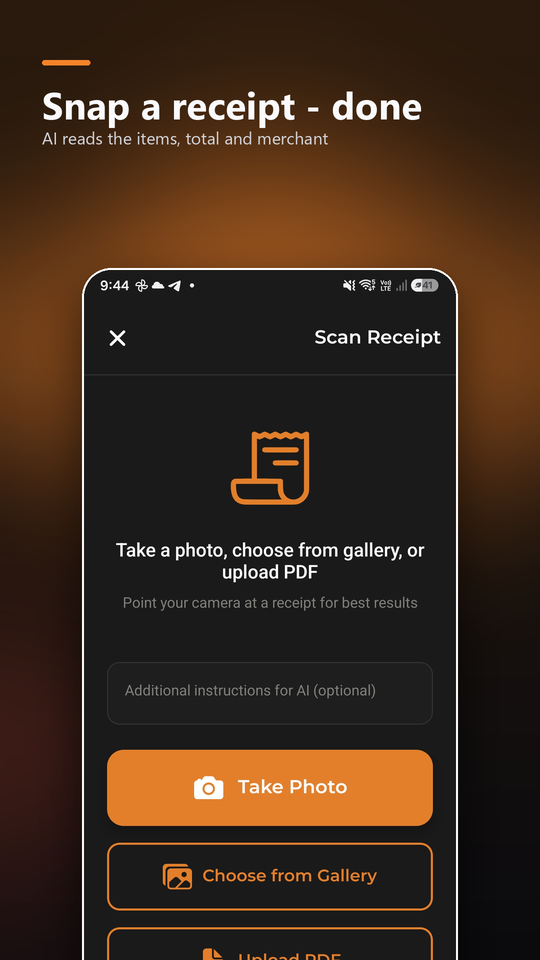
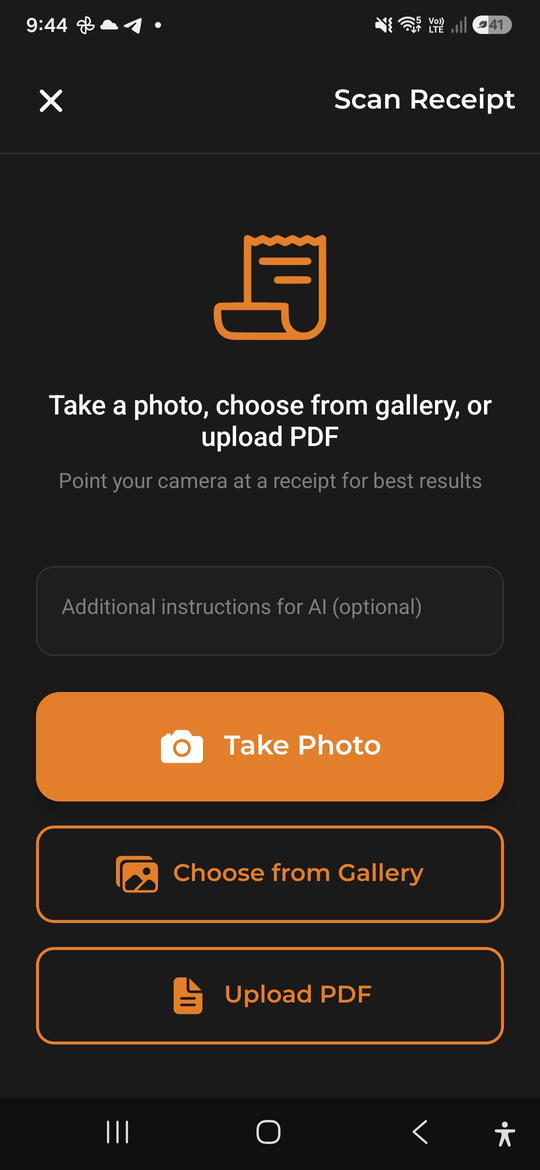
ABA-269: Landing fixes - clean screenshots, no-jump lightbox, centered footer, language dropdown
- Feature lightbox uses clean raw screenshots (by-language/) instead of the styled
  marketing plaques (fixes the "generic image" on the shared-budget card)
- Lightbox switched from :target anchors to a pure-CSS checkbox hack, so closing no
  longer jumps the page to the top (URL hash never changes)
- Footer centered
- Language picker is now a <details> dropdown with native language names (scales to 9)

diff --git a/docs/marketing/landing/site/index.html b/docs/marketing/landing/site/index.html
@@ -38,13 +38,19 @@ header .wrap{display:flex;align-items:center;justify-content:space-between;heigh
 .faq h3{margin:0 0 6px;font-size:18px}.faq p{margin:0;color:#5b5b66;font-size:16px}
 .blogcta{text-align:center;padding:0 0 60px}.blogcta a{color:#c96a12;font-weight:700;font-size:16px}
 .band{background:#1a1a1d;color:#fff;text-align:center}.band .wrap{padding:56px 22px}.band h2{font-size:28px;margin:0 0 22px}
-footer{border-top:1px solid #ececf0;background:#fafafb;color:#8a8a93;font-size:14px}
-footer .wrap{padding:30px 22px;display:flex;flex-direction:column;gap:16px}
-.f-links{display:flex;gap:18px;flex-wrap:wrap}.f-links a{color:#5b5b66;font-weight:600}
-.f-co{display:flex;align-items:center;gap:12px;border-top:1px solid #ececf0;padding-top:16px}
+footer{border-top:1px solid #ececf0;background:#fafafb;color:#8a8a93;font-size:14px;text-align:center}
+footer .wrap{padding:30px 22px;display:flex;flex-direction:column;align-items:center;gap:16px}
+.f-links{display:flex;gap:18px;flex-wrap:wrap;justify-content:center}.f-links a{color:#5b5b66;font-weight:600}
+.f-co{display:flex;align-items:center;justify-content:center;gap:12px;border-top:1px solid #ececf0;padding-top:16px;width:100%}
 .f-co img{height:30px;width:30px}
+.langmenu{position:relative}.langmenu>summary{list-style:none;cursor:pointer;color:#5b5b66;font-weight:600;font-size:15px}
+.langmenu>summary::-webkit-details-marker{display:none}
+.langlist{position:absolute;top:150%;right:0;background:#fff;border:1px solid #ececf0;border-radius:12px;box-shadow:0 12px 30px rgba(0,0,0,.12);padding:6px;min-width:170px;z-index:20}
+.langlist a{display:block;padding:9px 12px;border-radius:8px;color:#3a3a42;font-size:14px;font-weight:600}
+.langlist a:hover{background:#fff3e6}.langlist a.active{color:#F58320}
+.lbcb{position:absolute;width:0;height:0;opacity:0;overflow:hidden}
 .lb{display:none;position:fixed;inset:0;background:rgba(10,10,12,.82);z-index:50;align-items:center;justify-content:center;padding:24px}
-.lb:target{display:flex}.lb .bg{position:absolute;inset:0}
+.lbcb:checked + .lb{display:flex}.lb .bg{position:absolute;inset:0;cursor:default}
 .lb img{position:relative;max-height:86vh;max-width:360px;width:100%;border-radius:18px;box-shadow:0 20px 60px rgba(0,0,0,.5)}
-.lb .x{position:absolute;top:16px;right:22px;color:#fff;font-size:32px;font-weight:700;z-index:2}
-</style></head><body><header><div class="wrap"><a class="brand" href="/preview/">AI <span>Budget</span> Assistant</a><nav class="nav"><div class="langs"><a class="active" href="/preview/">PL</a><a class="" href="/preview/en/">EN</a></div><a href="/blog/pl/">Blog</a><a class="btn p" href="https://app.ai-budget.pl">Zaloguj się</a></nav></div></header><section class="hero"><div class="wrap"><h1>Budżet domowy z asystentem AI</h1><p>Wydatki, budżety, oszczędności i wspólne finanse rodziny w jednej aplikacji. AI zajmuje się żmudną robotą za Ciebie. Zacznij za darmo.</p><a class="btn p" href="https://app.ai-budget.pl">Otwórz aplikację</a><a class="btn s" href="https://play.google.com/store/apps/details?id=com.budget.assistant">Pobierz z Google Play</a></div></section><section class="sec intro"><div class="wrap"><h2>Kontrola wydatków bez Excela</h2><p>AI Budget Assistant to aplikacja do budżetu domowego, która łączy wydatki, budżety, cele oszczędnościowe, długi i import z banku w jednym miejscu. Zamiast ręcznie wpisywać każdy paragon, dodajesz wydatek głosem albo zdjęciem, a asystent AI odpowiada na pytania o Twoje finanse zwykłym językiem. Prowadź budżet sam lub wspólnie z rodziną, na żywo, na telefonie, tablecie i w przeglądarce.</p></div></section><section class="sec"><div class="wrap"><h2>Wszystko w jednej aplikacji</h2><p class="hint">Kliknij funkcję, aby zobaczyć ją w aplikacji</p><div class="grid"><a class="card" href="#shot1"><div class="ic"><b>1</b></div><h3>Asystent AI</h3><p>Dodawaj wydatki głosem lub zdjęciem paragonu i pytaj zwykłym językiem, ile wydałeś.</p><span class="see">Zobacz w aplikacji &rarr;</span></a><a class="card" href="#shot2"><div class="ic"><b>2</b></div><h3>Wspólny budżet</h3><p>Jedno konto, cała rodzina widzi te same wydatki i budżet domowy na żywo.</p><span class="see">Zobacz w aplikacji &rarr;</span></a><a class="card" href="#shot3"><div class="ic"><b>3</b></div><h3>Skan paragonów</h3><p>Zrób zdjęcie paragonu, a AI odczyta pozycje, kwotę i sprzedawcę.</p><span class="see">Zobacz w aplikacji &rarr;</span></a><a class="card" href="#shot4"><div class="ic"><b>4</b></div><h3>Budżety i cele</h3><p>Elastyczne budżety z historią, cele oszczędnościowe i śledzenie długów.</p><span class="see">Zobacz w aplikacji &rarr;</span></a><a class="card" href="#shot5"><div class="ic"><b>5</b></div><h3>Analizy wydatków</h3><p>Trendy, podział na kategorie i sprzedawców oraz analizy AI.</p><span class="see">Zobacz w aplikacji &rarr;</span></a><a class="card" href="#shot6"><div class="ic"><b>6</b></div><h3>Import z banku</h3><p>Wczytaj transakcje z Wise i banków (CSV lub PDF) z wykrywaniem duplikatów.</p><span class="see">Zobacz w aplikacji &rarr;</span></a></div></div></section><section class="sec"><div class="wrap"><h2>Najczęstsze pytania</h2><div class="faq"><div class="qa"><h3>Czy aplikacja do budżetu jest darmowa?</h3><p>Tak, podstawowe funkcje są darmowe. Plan Pro zwiększa limity AI i odblokowuje zaawansowane analizy.</p></div><div class="qa"><h3>Jak dodawać wydatki?</h3><p>Głosem, zdjęciem paragonu albo ręcznie. Asystent AI rozpoznaje pozycje, kwotę i sprzedawcę.</p></div><div class="qa"><h3>Czy mogę prowadzić budżet domowy z rodziną?</h3><p>Tak. Wspólne konto sprawia, że wszyscy widzą te same wydatki i budżet w czasie rzeczywistym.</p></div><div class="qa"><h3>Czy zaimportuję transakcje z banku?</h3><p>Tak, z Wise i banków przez CSV lub PDF, z automatycznym wykrywaniem duplikatów.</p></div></div></div></section><div class="blogcta"><a href="/blog/pl/">Czytaj poradniki na blogu &rarr;</a></div><section class="band"><div class="wrap"><h2>Przejmij kontrolę nad pieniędzmi, sam lub z rodziną.</h2><a class="btn p" href="https://app.ai-budget.pl">Zacznij za darmo</a></div></section><footer><div class="wrap"><div class="f-links"><a href="/blog/pl/">Blog</a><a href="https://app.ai-budget.pl">Zaloguj się</a><a href="https://play.google.com/store/apps/details?id=com.budget.assistant">Google Play</a></div><div class="f-co"><img src="/preview/assets/mi_code_logo.svg" alt="MICODE sp. z o.o." width="30" height="30"><span>&copy; 2026 AI Budget Assistant &mdash; MICODE sp. z o.o.. Wszelkie prawa zastrzeżone.</span></div></div></footer><div class="lb" id="shot1"><a class="bg" href="#"></a><a class="x" href="#">&times;</a><img loading="lazy" src="/preview/assets/screens/pl/02-ai-chat.png" alt="Asystent AI - AI Budget Assistant"></div><div class="lb" id="shot2"><a class="bg" href="#"></a><a class="x" href="#">&times;</a><img loading="lazy" src="/preview/assets/screens/pl/01-home.png" alt="Wspólny budżet - AI Budget Assistant"></div><div class="lb" id="shot3"><a class="bg" href="#"></a><a class="x" href="#">&times;</a><img loading="lazy" src="/preview/assets/screens/pl/03-receipt-scan.png" alt="Skan paragonów - AI Budget Assistant"></div><div class="lb" id="shot4"><a class="bg" href="#"></a><a class="x" href="#">&times;</a><img loading="lazy" src="/preview/assets/screens/pl/05-budget-detail.png" alt="Budżety i cele - AI Budget Assistant"></div><div class="lb" id="shot5"><a class="bg" href="#"></a><a class="x" href="#">&times;</a><img loading="lazy" src="/preview/assets/screens/pl/04-analytics.png" alt="Analizy wydatków - AI Budget Assistant"></div><div class="lb" id="shot6"><a class="bg" href="#"></a><a class="x" href="#">&times;</a><img loading="lazy" src="/preview/assets/screens/pl/06-bank-import.png" alt="Import z banku - AI Budget Assistant"></div></body></html>
+.lb .x{position:absolute;top:16px;right:22px;color:#fff;font-size:34px;font-weight:700;z-index:2;cursor:pointer;line-height:1}
+</style></head><body><header><div class="wrap"><a class="brand" href="/preview/">AI <span>Budget</span> Assistant</a><nav class="nav"><details class="langmenu"><summary>Polski &#9662;</summary><div class="langlist"><a class="active" href="/preview/">Polski</a><a class="" href="/preview/en/">English</a></div></details><a href="/blog/pl/">Blog</a><a class="btn p" href="https://app.ai-budget.pl">Zaloguj się</a></nav></div></header><section class="hero"><div class="wrap"><h1>Budżet domowy z asystentem AI</h1><p>Wydatki, budżety, oszczędności i wspólne finanse rodziny w jednej aplikacji. AI zajmuje się żmudną robotą za Ciebie. Zacznij za darmo.</p><a class="btn p" href="https://app.ai-budget.pl">Otwórz aplikację</a><a class="btn s" href="https://play.google.com/store/apps/details?id=com.budget.assistant">Pobierz z Google Play</a></div></section><section class="sec intro"><div class="wrap"><h2>Kontrola wydatków bez Excela</h2><p>AI Budget Assistant to aplikacja do budżetu domowego, która łączy wydatki, budżety, cele oszczędnościowe, długi i import z banku w jednym miejscu. Zamiast ręcznie wpisywać każdy paragon, dodajesz wydatek głosem albo zdjęciem, a asystent AI odpowiada na pytania o Twoje finanse zwykłym językiem. Prowadź budżet sam lub wspólnie z rodziną, na żywo, na telefonie, tablecie i w przeglądarce.</p></div></section><section class="sec"><div class="wrap"><h2>Wszystko w jednej aplikacji</h2><p class="hint">Kliknij funkcję, aby zobaczyć ją w aplikacji</p><div class="grid"><label class="card" for="cb1"><div class="ic"><b>1</b></div><h3>Asystent AI</h3><p>Dodawaj wydatki głosem lub zdjęciem paragonu i pytaj zwykłym językiem, ile wydałeś.</p><span class="see">Zobacz w aplikacji &rarr;</span></label><label class="card" for="cb2"><div class="ic"><b>2</b></div><h3>Wspólny budżet</h3><p>Jedno konto, cała rodzina widzi te same wydatki i budżet domowy na żywo.</p><span class="see">Zobacz w aplikacji &rarr;</span></label><label class="card" for="cb3"><div class="ic"><b>3</b></div><h3>Skan paragonów</h3><p>Zrób zdjęcie paragonu, a AI odczyta pozycje, kwotę i sprzedawcę.</p><span class="see">Zobacz w aplikacji &rarr;</span></label><label class="card" for="cb4"><div class="ic"><b>4</b></div><h3>Budżety i cele</h3><p>Elastyczne budżety z historią, cele oszczędnościowe i śledzenie długów.</p><span class="see">Zobacz w aplikacji &rarr;</span></label><label class="card" for="cb5"><div class="ic"><b>5</b></div><h3>Analizy wydatków</h3><p>Trendy, podział na kategorie i sprzedawców oraz analizy AI.</p><span class="see">Zobacz w aplikacji &rarr;</span></label><label class="card" for="cb6"><div class="ic"><b>6</b></div><h3>Import z banku</h3><p>Wczytaj transakcje z Wise i banków (CSV lub PDF) z wykrywaniem duplikatów.</p><span class="see">Zobacz w aplikacji &rarr;</span></label></div></div></section><section class="sec"><div class="wrap"><h2>Najczęstsze pytania</h2><div class="faq"><div class="qa"><h3>Czy aplikacja do budżetu jest darmowa?</h3><p>Tak, podstawowe funkcje są darmowe. Plan Pro zwiększa limity AI i odblokowuje zaawansowane analizy.</p></div><div class="qa"><h3>Jak dodawać wydatki?</h3><p>Głosem, zdjęciem paragonu albo ręcznie. Asystent AI rozpoznaje pozycje, kwotę i sprzedawcę.</p></div><div class="qa"><h3>Czy mogę prowadzić budżet domowy z rodziną?</h3><p>Tak. Wspólne konto sprawia, że wszyscy widzą te same wydatki i budżet w czasie rzeczywistym.</p></div><div class="qa"><h3>Czy zaimportuję transakcje z banku?</h3><p>Tak, z Wise i banków przez CSV lub PDF, z automatycznym wykrywaniem duplikatów.</p></div></div></div></section><div class="blogcta"><a href="/blog/pl/">Czytaj poradniki na blogu &rarr;</a></div><section class="band"><div class="wrap"><h2>Przejmij kontrolę nad pieniędzmi, sam lub z rodziną.</h2><a class="btn p" href="https://app.ai-budget.pl">Zacznij za darmo</a></div></section><footer><div class="wrap"><div class="f-links"><a href="/blog/pl/">Blog</a><a href="https://app.ai-budget.pl">Zaloguj się</a><a href="https://play.google.com/store/apps/details?id=com.budget.assistant">Google Play</a></div><div class="f-co"><img src="/preview/assets/mi_code_logo.svg" alt="MICODE sp. z o.o." width="30" height="30"><span>&copy; 2026 AI Budget Assistant &mdash; MICODE sp. z o.o.. Wszelkie prawa zastrzeżone.</span></div></div></footer><input class="lbcb" type="checkbox" id="cb1"><div class="lb"><label class="bg" for="cb1"></label><label class="x" for="cb1">&times;</label><img loading="lazy" src="/preview/assets/screens/pl/02-ai-chat.png" alt="Asystent AI - AI Budget Assistant"></div><input class="lbcb" type="checkbox" id="cb2"><div class="lb"><label class="bg" for="cb2"></label><label class="x" for="cb2">&times;</label><img loading="lazy" src="/preview/assets/screens/pl/01-home.png" alt="Wspólny budżet - AI Budget Assistant"></div><input class="lbcb" type="checkbox" id="cb3"><div class="lb"><label class="bg" for="cb3"></label><label class="x" for="cb3">&times;</label><img loading="lazy" src="/preview/assets/screens/pl/03-receipt-scan.png" alt="Skan paragonów - AI Budget Assistant"></div><input class="lbcb" type="checkbox" id="cb4"><div class="lb"><label class="bg" for="cb4"></label><label class="x" for="cb4">&times;</label><img loading="lazy" src="/preview/assets/screens/pl/05-budget-detail.png" alt="Budżety i cele - AI Budget Assistant"></div><input class="lbcb" type="checkbox" id="cb5"><div class="lb"><label class="bg" for="cb5"></label><label class="x" for="cb5">&times;</label><img loading="lazy" src="/preview/assets/screens/pl/04-analytics.png" alt="Analizy wydatków - AI Budget Assistant"></div><input class="lbcb" type="checkbox" id="cb6"><div class="lb"><label class="bg" for="cb6"></label><label class="x" for="cb6">&times;</label><img loading="lazy" src="/preview/assets/screens/pl/06-bank-import.png" alt="Import z banku - AI Budget Assistant"></div></body></html>

diff --git a/docs/marketing/landing/site/en/index.html b/docs/marketing/landing/site/en/index.html
@@ -38,13 +38,19 @@ header .wrap{display:flex;align-items:center;justify-content:space-between;heigh
 .faq h3{margin:0 0 6px;font-size:18px}.faq p{margin:0;color:#5b5b66;font-size:16px}
 .blogcta{text-align:center;padding:0 0 60px}.blogcta a{color:#c96a12;font-weight:700;font-size:16px}
 .band{background:#1a1a1d;color:#fff;text-align:center}.band .wrap{padding:56px 22px}.band h2{font-size:28px;margin:0 0 22px}
-footer{border-top:1px solid #ececf0;background:#fafafb;color:#8a8a93;font-size:14px}
-footer .wrap{padding:30px 22px;display:flex;flex-direction:column;gap:16px}
-.f-links{display:flex;gap:18px;flex-wrap:wrap}.f-links a{color:#5b5b66;font-weight:600}
-.f-co{display:flex;align-items:center;gap:12px;border-top:1px solid #ececf0;padding-top:16px}
+footer{border-top:1px solid #ececf0;background:#fafafb;color:#8a8a93;font-size:14px;text-align:center}
+footer .wrap{padding:30px 22px;display:flex;flex-direction:column;align-items:center;gap:16px}
+.f-links{display:flex;gap:18px;flex-wrap:wrap;justify-content:center}.f-links a{color:#5b5b66;font-weight:600}
+.f-co{display:flex;align-items:center;justify-content:center;gap:12px;border-top:1px solid #ececf0;padding-top:16px;width:100%}
 .f-co img{height:30px;width:30px}
+.langmenu{position:relative}.langmenu>summary{list-style:none;cursor:pointer;color:#5b5b66;font-weight:600;font-size:15px}
+.langmenu>summary::-webkit-details-marker{display:none}
+.langlist{position:absolute;top:150%;right:0;background:#fff;border:1px solid #ececf0;border-radius:12px;box-shadow:0 12px 30px rgba(0,0,0,.12);padding:6px;min-width:170px;z-index:20}
+.langlist a{display:block;padding:9px 12px;border-radius:8px;color:#3a3a42;font-size:14px;font-weight:600}
+.langlist a:hover{background:#fff3e6}.langlist a.active{color:#F58320}
+.lbcb{position:absolute;width:0;height:0;opacity:0;overflow:hidden}
 .lb{display:none;position:fixed;inset:0;background:rgba(10,10,12,.82);z-index:50;align-items:center;justify-content:center;padding:24px}
-.lb:target{display:flex}.lb .bg{position:absolute;inset:0}
+.lbcb:checked + .lb{display:flex}.lb .bg{position:absolute;inset:0;cursor:default}
 .lb img{position:relative;max-height:86vh;max-width:360px;width:100%;border-radius:18px;box-shadow:0 20px 60px rgba(0,0,0,.5)}
-.lb .x{position:absolute;top:16px;right:22px;color:#fff;font-size:32px;font-weight:700;z-index:2}
-</style></head><body><header><div class="wrap"><a class="brand" href="/preview/en/">AI <span>Budget</span> Assistant</a><nav class="nav"><div class="langs"><a class="" href="/preview/">PL</a><a class="active" href="/preview/en/">EN</a></div><a href="/blog/en/">Blog</a><a class="btn p" href="https://app.ai-budget.pl">Log in</a></nav></div></header><section class="hero"><div class="wrap"><h1>Budget app and expense tracker with AI</h1><p>Track expenses, plan budgets, hit savings goals and manage money together with your family, in one app. The AI does the boring work. Start free.</p><a class="btn p" href="https://app.ai-budget.pl">Open the app</a><a class="btn s" href="https://play.google.com/store/apps/details?id=com.budget.assistant">Get it on Google Play</a></div></section><section class="sec intro"><div class="wrap"><h2>Expense tracking without spreadsheets</h2><p>AI Budget Assistant is an all-in-one budget app that brings expenses, budgets, savings goals, debts and bank import into one place. Instead of typing in every receipt, you add an expense by voice or a photo, and the AI answers questions about your money in plain language. Track it on your own or share one budget with your family in real time, on phone, tablet and web.</p></div></section><section class="sec"><div class="wrap"><h2>Everything in one app</h2><p class="hint">Tap a feature to see it in the app</p><div class="grid"><a class="card" href="#shot1"><div class="ic"><b>1</b></div><h3>AI assistant</h3><p>Add expenses by voice or a photo of a receipt, and ask in plain language how much you spent.</p><span class="see">See in the app &rarr;</span></a><a class="card" href="#shot2"><div class="ic"><b>2</b></div><h3>Shared budget</h3><p>One account, the whole family sees the same expenses and household budget in real time.</p><span class="see">See in the app &rarr;</span></a><a class="card" href="#shot3"><div class="ic"><b>3</b></div><h3>Scan receipts</h3><p>Snap a receipt and the AI reads the items, total and merchant.</p><span class="see">See in the app &rarr;</span></a><a class="card" href="#shot4"><div class="ic"><b>4</b></div><h3>Budgets and goals</h3><p>Flexible budgets with history, savings goals and debt tracking.</p><span class="see">See in the app &rarr;</span></a><a class="card" href="#shot5"><div class="ic"><b>5</b></div><h3>Spending analytics</h3><p>Trends, category and merchant breakdowns, and AI insights.</p><span class="see">See in the app &rarr;</span></a><a class="card" href="#shot6"><div class="ic"><b>6</b></div><h3>Bank import</h3><p>Import transactions from Wise and banks (CSV or PDF) with duplicate detection.</p><span class="see">See in the app &rarr;</span></a></div></div></section><section class="sec"><div class="wrap"><h2>Frequently asked questions</h2><div class="faq"><div class="qa"><h3>Is the budget app free?</h3><p>Yes, the core features are free. Pro raises the AI limits and unlocks advanced analytics.</p></div><div class="qa"><h3>How do I add expenses?</h3><p>By voice, a photo of a receipt, or manually. The AI reads the items, total and merchant.</p></div><div class="qa"><h3>Can I budget with my family?</h3><p>Yes. A shared account lets everyone see the same expenses and budget in real time.</p></div><div class="qa"><h3>Can I import bank transactions?</h3><p>Yes, from Wise and banks via CSV or PDF, with automatic duplicate detection.</p></div></div></div></section><div class="blogcta"><a href="/blog/en/">Read guides on the blog &rarr;</a></div><section class="band"><div class="wrap"><h2>Take control of your money, on your own or together.</h2><a class="btn p" href="https://app.ai-budget.pl">Start free</a></div></section><footer><div class="wrap"><div class="f-links"><a href="/blog/en/">Blog</a><a href="https://app.ai-budget.pl">Log in</a><a href="https://play.google.com/store/apps/details?id=com.budget.assistant">Google Play</a></div><div class="f-co"><img src="/preview/assets/mi_code_logo.svg" alt="MICODE sp. z o.o." width="30" height="30"><span>&copy; 2026 AI Budget Assistant &mdash; MICODE sp. z o.o.. All rights reserved.</span></div></div></footer><div class="lb" id="shot1"><a class="bg" href="#"></a><a class="x" href="#">&times;</a><img loading="lazy" src="/preview/assets/screens/en/02-ai-chat.png" alt="AI assistant - AI Budget Assistant"></div><div class="lb" id="shot2"><a class="bg" href="#"></a><a class="x" href="#">&times;</a><img loading="lazy" src="/preview/assets/screens/en/01-home.png" alt="Shared budget - AI Budget Assistant"></div><div class="lb" id="shot3"><a class="bg" href="#"></a><a class="x" href="#">&times;</a><img loading="lazy" src="/preview/assets/screens/en/03-receipt-scan.png" alt="Scan receipts - AI Budget Assistant"></div><div class="lb" id="shot4"><a class="bg" href="#"></a><a class="x" href="#">&times;</a><img loading="lazy" src="/preview/assets/screens/en/05-budget-detail.png" alt="Budgets and goals - AI Budget Assistant"></div><div class="lb" id="shot5"><a class="bg" href="#"></a><a class="x" href="#">&times;</a><img loading="lazy" src="/preview/assets/screens/en/04-analytics.png" alt="Spending analytics - AI Budget Assistant"></div><div class="lb" id="shot6"><a class="bg" href="#"></a><a class="x" href="#">&times;</a><img loading="lazy" src="/preview/assets/screens/en/06-bank-import.png" alt="Bank import - AI Budget Assistant"></div></body></html>
+.lb .x{position:absolute;top:16px;right:22px;color:#fff;font-size:34px;font-weight:700;z-index:2;cursor:pointer;line-height:1}
+</style></head><body><header><div class="wrap"><a class="brand" href="/preview/en/">AI <span>Budget</span> Assistant</a><nav class="nav"><details class="langmenu"><summary>English &#9662;</summary><div class="langlist"><a class="" href="/preview/">Polski</a><a class="active" href="/preview/en/">English</a></div></details><a href="/blog/en/">Blog</a><a class="btn p" href="https://app.ai-budget.pl">Log in</a></nav></div></header><section class="hero"><div class="wrap"><h1>Budget app and expense tracker with AI</h1><p>Track expenses, plan budgets, hit savings goals and manage money together with your family, in one app. The AI does the boring work. Start free.</p><a class="btn p" href="https://app.ai-budget.pl">Open the app</a><a class="btn s" href="https://play.google.com/store/apps/details?id=com.budget.assistant">Get it on Google Play</a></div></section><section class="sec intro"><div class="wrap"><h2>Expense tracking without spreadsheets</h2><p>AI Budget Assistant is an all-in-one budget app that brings expenses, budgets, savings goals, debts and bank import into one place. Instead of typing in every receipt, you add an expense by voice or a photo, and the AI answers questions about your money in plain language. Track it on your own or share one budget with your family in real time, on phone, tablet and web.</p></div></section><section class="sec"><div class="wrap"><h2>Everything in one app</h2><p class="hint">Tap a feature to see it in the app</p><div class="grid"><label class="card" for="cb1"><div class="ic"><b>1</b></div><h3>AI assistant</h3><p>Add expenses by voice or a photo of a receipt, and ask in plain language how much you spent.</p><span class="see">See in the app &rarr;</span></label><label class="card" for="cb2"><div class="ic"><b>2</b></div><h3>Shared budget</h3><p>One account, the whole family sees the same expenses and household budget in real time.</p><span class="see">See in the app &rarr;</span></label><label class="card" for="cb3"><div class="ic"><b>3</b></div><h3>Scan receipts</h3><p>Snap a receipt and the AI reads the items, total and merchant.</p><span class="see">See in the app &rarr;</span></label><label class="card" for="cb4"><div class="ic"><b>4</b></div><h3>Budgets and goals</h3><p>Flexible budgets with history, savings goals and debt tracking.</p><span class="see">See in the app &rarr;</span></label><label class="card" for="cb5"><div class="ic"><b>5</b></div><h3>Spending analytics</h3><p>Trends, category and merchant breakdowns, and AI insights.</p><span class="see">See in the app &rarr;</span></label><label class="card" for="cb6"><div class="ic"><b>6</b></div><h3>Bank import</h3><p>Import transactions from Wise and banks (CSV or PDF) with duplicate detection.</p><span class="see">See in the app &rarr;</span></label></div></div></section><section class="sec"><div class="wrap"><h2>Frequently asked questions</h2><div class="faq"><div class="qa"><h3>Is the budget app free?</h3><p>Yes, the core features are free. Pro raises the AI limits and unlocks advanced analytics.</p></div><div class="qa"><h3>How do I add expenses?</h3><p>By voice, a photo of a receipt, or manually. The AI reads the items, total and merchant.</p></div><div class="qa"><h3>Can I budget with my family?</h3><p>Yes. A shared account lets everyone see the same expenses and budget in real time.</p></div><div class="qa"><h3>Can I import bank transactions?</h3><p>Yes, from Wise and banks via CSV or PDF, with automatic duplicate detection.</p></div></div></div></section><div class="blogcta"><a href="/blog/en/">Read guides on the blog &rarr;</a></div><section class="band"><div class="wrap"><h2>Take control of your money, on your own or together.</h2><a class="btn p" href="https://app.ai-budget.pl">Start free</a></div></section><footer><div class="wrap"><div class="f-links"><a href="/blog/en/">Blog</a><a href="https://app.ai-budget.pl">Log in</a><a href="https://play.google.com/store/apps/details?id=com.budget.assistant">Google Play</a></div><div class="f-co"><img src="/preview/assets/mi_code_logo.svg" alt="MICODE sp. z o.o." width="30" height="30"><span>&copy; 2026 AI Budget Assistant &mdash; MICODE sp. z o.o.. All rights reserved.</span></div></div></footer><input class="lbcb" type="checkbox" id="cb1"><div class="lb"><label class="bg" for="cb1"></label><label class="x" for="cb1">&times;</label><img loading="lazy" src="/preview/assets/screens/en/02-ai-chat.png" alt="AI assistant - AI Budget Assistant"></div><input class="lbcb" type="checkbox" id="cb2"><div class="lb"><label class="bg" for="cb2"></label><label class="x" for="cb2">&times;</label><img loading="lazy" src="/preview/assets/screens/en/01-home.png" alt="Shared budget - AI Budget Assistant"></div><input class="lbcb" type="checkbox" id="cb3"><div class="lb"><label class="bg" for="cb3"></label><label class="x" for="cb3">&times;</label><img loading="lazy" src="/preview/assets/screens/en/03-receipt-scan.png" alt="Scan receipts - AI Budget Assistant"></div><input class="lbcb" type="checkbox" id="cb4"><div class="lb"><label class="bg" for="cb4"></label><label class="x" for="cb4">&times;</label><img loading="lazy" src="/preview/assets/screens/en/05-budget-detail.png" alt="Budgets and goals - AI Budget Assistant"></div><input class="lbcb" type="checkbox" id="cb5"><div class="lb"><label class="bg" for="cb5"></label><label class="x" for="cb5">&times;</label><img loading="lazy" src="/preview/assets/screens/en/04-analytics.png" alt="Spending analytics - AI Budget Assistant"></div><input class="lbcb" type="checkbox" id="cb6"><div class="lb"><label class="bg" for="cb6"></label><label class="x" for="cb6">&times;</label><img loading="lazy" src="/preview/assets/screens/en/06-bank-import.png" alt="Bank import - AI Budget Assistant"></div></body></html>

diff --git a/docs/marketing/landing/build_landing.py b/docs/marketing/landing/build_landing.py
@@ -22,7 +22,7 @@ from PIL import Image
 
 ROOT = os.path.dirname(os.path.abspath(__file__))
 OUT = os.path.join(ROOT, "site")
-FEAT = os.path.join(ROOT, "..", "feature_graphics", "marketing")
+FEAT = os.path.join(ROOT, "..", "feature_graphics", "by-language")  # clean raw screenshots (no headline plaque)
 SITE = "https://ai-budget.pl"
 APP = "https://app.ai-budget.pl"
 PLAY = "https://play.google.com/store/apps/details?id=com.budget.assistant"
@@ -34,6 +34,8 @@ ROBOTS = os.environ.get("ROBOTS", "noindex,follow")
 DEFAULT_LANG = "pl"
 LOCALE = {"pl": "pl_PL", "en": "en_US", "de": "de_DE", "es": "es_ES", "fr": "fr_FR",
           "ru": "ru_RU", "ua": "uk_UA", "be": "be_BY", "nl": "nl_NL"}
+LANG_NAMES = {"pl": "Polski", "en": "English", "de": "Deutsch", "es": "Español", "fr": "Français",
+              "ru": "Русский", "ua": "Українська", "be": "Беларуская", "nl": "Nederlands"}
 
 # Each feature: (title, description, screenshot-file in feature_graphics/marketing/<lang>/)
 C = {
@@ -133,15 +135,21 @@ header .wrap{display:flex;align-items:center;justify-content:space-between;heigh
 .faq h3{margin:0 0 6px;font-size:18px}.faq p{margin:0;color:#5b5b66;font-size:16px}
 .blogcta{text-align:center;padding:0 0 60px}.blogcta a{color:#c96a12;font-weight:700;font-size:16px}
 .band{background:#1a1a1d;color:#fff;text-align:center}.band .wrap{padding:56px 22px}.band h2{font-size:28px;margin:0 0 22px}
-footer{border-top:1px solid #ececf0;background:#fafafb;color:#8a8a93;font-size:14px}
-footer .wrap{padding:30px 22px;display:flex;flex-direction:column;gap:16px}
-.f-links{display:flex;gap:18px;flex-wrap:wrap}.f-links a{color:#5b5b66;font-weight:600}
-.f-co{display:flex;align-items:center;gap:12px;border-top:1px solid #ececf0;padding-top:16px}
+footer{border-top:1px solid #ececf0;background:#fafafb;color:#8a8a93;font-size:14px;text-align:center}
+footer .wrap{padding:30px 22px;display:flex;flex-direction:column;align-items:center;gap:16px}
+.f-links{display:flex;gap:18px;flex-wrap:wrap;justify-content:center}.f-links a{color:#5b5b66;font-weight:600}
+.f-co{display:flex;align-items:center;justify-content:center;gap:12px;border-top:1px solid #ececf0;padding-top:16px;width:100%}
 .f-co img{height:30px;width:30px}
+.langmenu{position:relative}.langmenu>summary{list-style:none;cursor:pointer;color:#5b5b66;font-weight:600;font-size:15px}
+.langmenu>summary::-webkit-details-marker{display:none}
+.langlist{position:absolute;top:150%;right:0;background:#fff;border:1px solid #ececf0;border-radius:12px;box-shadow:0 12px 30px rgba(0,0,0,.12);padding:6px;min-width:170px;z-index:20}
+.langlist a{display:block;padding:9px 12px;border-radius:8px;color:#3a3a42;font-size:14px;font-weight:600}
+.langlist a:hover{background:#fff3e6}.langlist a.active{color:#F58320}
+.lbcb{position:absolute;width:0;height:0;opacity:0;overflow:hidden}
 .lb{display:none;position:fixed;inset:0;background:rgba(10,10,12,.82);z-index:50;align-items:center;justify-content:center;padding:24px}
-.lb:target{display:flex}.lb .bg{position:absolute;inset:0}
+.lbcb:checked + .lb{display:flex}.lb .bg{position:absolute;inset:0;cursor:default}
 .lb img{position:relative;max-height:86vh;max-width:360px;width:100%;border-radius:18px;box-shadow:0 20px 60px rgba(0,0,0,.5)}
-.lb .x{position:absolute;top:16px;right:22px;color:#fff;font-size:32px;font-weight:700;z-index:2}
+.lb .x{position:absolute;top:16px;right:22px;color:#fff;font-size:34px;font-weight:700;z-index:2;cursor:pointer;line-height:1}
 """
 
 def lp(lang):
@@ -184,19 +192,21 @@ def head(lang, langs):
 def page(lang, langs):
     t = C[lang]
     blog = f"/blog/{lang if lang in ('en','pl') else 'en'}/"
-    langsw = "".join(f'<a class="{"active" if l==lang else ""}" href="{lp(l)}">{l.upper()}</a>' for l in langs)
+    langlinks = "".join(f'<a class="{"active" if l==lang else ""}" href="{lp(l)}">{LANG_NAMES[l]}</a>' for l in langs)
+    langmenu = f'<details class="langmenu"><summary>{LANG_NAMES[lang]} &#9662;</summary><div class="langlist">{langlinks}</div></details>'
     cards, lbs = "", ""
     for i, (h, p, shot) in enumerate(t["features"]):
-        sid = f"shot{i+1}"
-        cards += (f'<a class="card" href="#{sid}"><div class="ic"><b>{i+1}</b></div>'
+        cid = f"cb{i+1}"
+        cards += (f'<label class="card" for="{cid}"><div class="ic"><b>{i+1}</b></div>'
                   f'<h3>{html.escape(h)}</h3><p>{html.escape(p)}</p>'
-                  f'<span class="see">{html.escape(t["see"])} &rarr;</span></a>')
-        lbs += (f'<div class="lb" id="{sid}"><a class="bg" href="#"></a><a class="x" href="#">&times;</a>'
+                  f'<span class="see">{html.escape(t["see"])} &rarr;</span></label>')
+        lbs += (f'<input class="lbcb" type="checkbox" id="{cid}">'
+                f'<div class="lb"><label class="bg" for="{cid}"></label><label class="x" for="{cid}">&times;</label>'
                 f'<img loading="lazy" src="{BASE}/assets/screens/{lang}/{shot}" alt="{html.escape(h)} - AI Budget Assistant"></div>')
     faq = "".join(f'<div class="qa"><h3>{html.escape(q)}</h3><p>{html.escape(a)}</p></div>' for q, a in t["faq"])
     return (head(lang, langs)
         + f'<header><div class="wrap"><a class="brand" href="{lp(lang)}">AI <span>Budget</span> Assistant</a>'
-          f'<nav class="nav"><div class="langs">{langsw}</div><a href="{blog}">{t["nav_blog"]}</a>'
+          f'<nav class="nav">{langmenu}<a href="{blog}">{t["nav_blog"]}</a>'
           f'<a class="btn p" href="{APP}">{t["nav_login"]}</a></nav></div></header>'
         + f'<section class="hero"><div class="wrap"><h1>{html.escape(t["hero_h1"])}</h1>'
           f'<p>{html.escape(t["hero_sub"])}</p><a class="btn p" href="{APP}">{t["cta_primary"]}</a>'
@@ -221,10 +231,10 @@ def copy_assets(langs):
         dst = os.path.join(OUT, "assets", "screens", lang)
         os.makedirs(dst, exist_ok=True)
         for shot in {s for _, _, s in C[lang]["features"]}:
-            src = os.path.join(FEAT, lang, shot)
+            src = os.path.join(FEAT, lang, os.path.splitext(shot)[0] + ".jpg")
             if not os.path.exists(src):
                 print("  MISSING screenshot:", lang, shot); continue
-            img = Image.open(src)
+            img = Image.open(src).convert("RGB")
             nw = 540; nh = round(img.height * nw / img.width)
             img.resize((nw, nh), Image.LANCZOS).save(os.path.join(dst, shot), "PNG", optimize=True)
 
